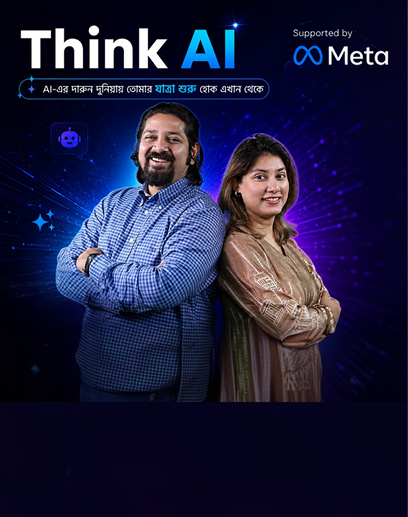
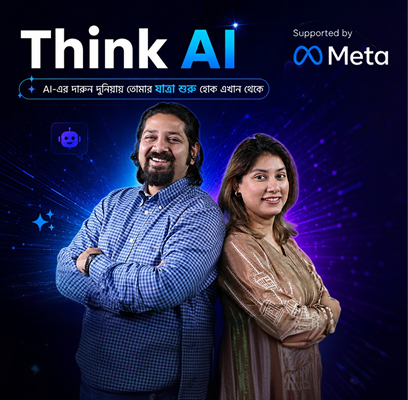
Youtube Iframe added

diff --git a/resources/views/frontend/pages/home.blade.php b/resources/views/frontend/pages/home.blade.php
@@ -49,7 +49,7 @@
     <!-- 2. Message from No.1 Brand -->
     <section class="brand-message-section">
         <div class="container">
-            <h2 class="message-title">স্বপ্ন দেখে এগিয়ে যাও</h2>
+            <h2 class="message-title" style="font-size: 2.5rem; font-style: italic;">স্বপ্ন দেখে এগিয়ে যাও</h2>
             <p class="message-body">
                 শিক্ষা প্রতিটি মানুষের মৌলিক অধিকার। আমাদের দেশের মেধাবী শিক্ষার্থীদের পথচলাকে মসৃণ করতে আমাদের এই বিশেষ
                 উদ্যোগ। সঠিক দিকনির্দেশনা ও প্রয়োজনীয় সহায়তার মাধ্যমে প্রতিটি শিক্ষার্থী যেন তাদের স্বপ্ন ছুঁতে পারে, সেটাই
@@ -66,7 +66,7 @@
                 <!-- Card 1 with YouTube Video -->
                 <div class="col-md-4">
                     <div class="course-card" data-video-id="jg-EvmKaqTQ">
-                        <img src="https://images.unsplash.com/photo-1618005182384-a83a8bd57fbe?auto=format&fit=crop&q=80&w=500"
+                        <img src="{{ asset('images/course-1-thum.png') }}"
                             alt="Think AI">
                         <div class="course-card-body">
                             <h4 class="fw-bold mb-3">Think AI Course</h4>
@@ -80,7 +80,7 @@
                 <!-- Card 2 with YouTube Video -->
                 <div class="col-md-4">
                     <div class="course-card" data-video-id="dQw4w9WgXcQ">
-                        <img src="https://images.unsplash.com/photo-1531482615713-2afd69097998?auto=format&fit=crop&q=80&w=500"
+                        <img src="{{ asset('images/course-2-thum.png') }}"
                             alt="Master AI">
                         <div class="course-card-body">
                             <h4 class="fw-bold mb-3">Mastering Digital Tools</h4>
@@ -94,7 +94,7 @@
                 <!-- Card 3 with YouTube Video -->
                 <div class="col-md-4">
                     <div class="course-card" data-video-id="SxR6m7kqP9M">
-                        <img src="https://images.unsplash.com/photo-1516321318423-f06f85e504b3?auto=format&fit=crop&q=80&w=500"
+                        <img src="{{ asset('images/course-3-thum.png') }}"
                             alt="Career BootCamp">
                         <div class="course-card-body">
                             <h4 class="fw-bold mb-3">ক্যারিয়ার গাইডলাইন</h4>
@@ -200,7 +200,7 @@
                 <div class="col-md-5">
                     <div class="video-card" data-video-id="jg-EvmKaqTQ">
                         <div class="video-thumb-wrapper">
-                            <img src="https://images.unsplash.com/photo-1515378791036-0648a3ef77b2?auto=format&fit=crop&q=80&w=500"
+                            <img src="https://cdn.10minuteschool.com/images/thumbnails/skills/ghore-boshe-Spoken-English-course-thumbnail-by-Munzereen-Shahid-16x9.jpg"
                                 class="w-100" style="height:250px; object-fit:cover;" alt="Video">
                             <div class="play-overlay" data-video-id="jg-EvmKaqTQ"><i class="bi bi-play-fill"></i></div>
                         </div>
@@ -209,10 +209,11 @@
                 </div>
                 <div class="col-md-5">
                     <div class="video-card" data-video-id="dQw4w9WgXcQ">
-                        <div class="video-thumb-wrapper">
-                            <img src="https://images.unsplash.com/photo-1577896851231-70ef18881754?auto=format&fit=crop&q=80&w=500"
+                       <div class="video-thumb-wrapper">
+                            <img src="https://cdn.10minuteschool.com/images/catalog/media/ASE-Thumbnail-16%C3%A0%C2%A6%C2%8F%C3%A0%C2%A6%C2%95%C3%A0%C2%A7%C2%8D%C3%A0%C2%A6%C2%B89_1780465442289.png"
                                 class="w-100" style="height:250px; object-fit:cover;" alt="Video">
-                            <div class="play-overlay" data-video-id="dQw4w9WgXcQ"><i class="bi bi-play-fill"></i></div>
+
+                            <div class="play-overlay" data-video-id="jg-EvmKaqTQ"><i class="bi bi-play-fill"></i></div>
                         </div>
                         <div class="p-3 text-center fw-bold">এসএসসি পরবর্তী সেরা কলেজ সিলেকশন স্ট্র্যাটেজি</div>
                     </div>
@@ -228,28 +229,30 @@
             <div class="row g-3 justify-content-center">
                 <div class="col-md-4">
                     <div class="video-card bg-transparent border-0 text-white" data-video-id="SxR6m7kqP9M">
+                       <div class="video-card bg-transparent border-0 text-white" data-video-id="jg-EvmKaqTQ">
                         <div class="video-thumb-wrapper">
-                            <img src="https://images.unsplash.com/photo-1511578314322-379afb476865?auto=format&fit=crop&q=80&w=400"
+                            <img src="https://ncdn.ntvbd.com/sites/default/files/styles/big_3/public/images/2024/06/05/mgi.jpg"
                                 class="w-100 rounded" style="height:180px; object-fit:cover;" alt="Gallery">
-                            <div class="play-overlay" data-video-id="SxR6m7kqP9M"><i class="bi bi-play-fill"></i></div>
+                            <div class="play-overlay" data-video-id="jg-EvmKaqTQ"><i class="bi bi-play-fill"></i></div>
                         </div>
+                    </div>
                     </div>
                 </div>
                 <div class="col-md-4">
                     <div class="video-card bg-transparent border-0 text-white" data-video-id="jg-EvmKaqTQ">
                         <div class="video-thumb-wrapper">
-                            <img src="https://images.unsplash.com/photo-1540575467063-178a50c2df87?auto=format&fit=crop&q=80&w=400"
+                            <img src="https://admin.dainikamadershomoy.com/images/large/2025/08/31/news_1756661557436.webp"
                                 class="w-100 rounded" style="height:180px; object-fit:cover;" alt="Gallery">
                             <div class="play-overlay" data-video-id="jg-EvmKaqTQ"><i class="bi bi-play-fill"></i></div>
                         </div>
                     </div>
                 </div>
                 <div class="col-md-4">
-                    <div class="video-card bg-transparent border-0 text-white" data-video-id="dQw4w9WgXcQ">
+                     <div class="video-card bg-transparent border-0 text-white" data-video-id="jg-EvmKaqTQ">
                         <div class="video-thumb-wrapper">
-                            <img src="https://images.unsplash.com/photo-1475721027785-f74eccf877e2?auto=format&fit=crop&q=80&w=400"
+                            <img src="https://scontent.fdac198-2.fna.fbcdn.net/v/t39.30808-6/481478843_1013384197492318_1529058912000844589_n.jpg?stp=dst-jpg_tt6&cstp=mx2048x1933&ctp=s2048x1933&_nc_cat=107&ccb=1-7&_nc_sid=127cfc&_nc_ohc=BcLtyeIU5lwQ7kNvwFULSrx&_nc_oc=AdqQSWBhRs28PI4QvDv1yg1C7x1zso0ukT5DFpyOIQ58CVnwrJRjOCnrOJuC-_8m4Tc&_nc_zt=23&_nc_ht=scontent.fdac198-2.fna&_nc_gid=J8VcfTUoV9QpLcBGyj0l-A&_nc_ss=7b289&oh=00_Af9uA_GFs_zo4w0FvFjQT6_hpFva_xAG8a2znOtgs13lPQ&oe=6A2DA9B1"
                                 class="w-100 rounded" style="height:180px; object-fit:cover;" alt="Gallery">
-                            <div class="play-overlay" data-video-id="dQw4w9WgXcQ"><i class="bi bi-play-fill"></i></div>
+                            <div class="play-overlay" data-video-id="jg-EvmKaqTQ"><i class="bi bi-play-fill"></i></div>
                         </div>
                     </div>
                 </div>
@@ -273,7 +276,7 @@
 
             <div class="position-relative rounded-4 overflow-hidden shadow-lg mb-4">
                 <img id="galleryMainImage"
-                    src="https://images.unsplash.com/photo-1492684223066-81342ee5ff30?auto=format&fit=crop&q=80&w=1200"
+                    src="https://admin.dainikamadershomoy.com/images/large/2025/08/31/news_1756661557436.webp"
                     class="w-100" style="max-height: 480px; object-fit: cover;" alt="Gallery main">
                 <button id="prevGalleryBtn"
                     class="btn btn-dark position-absolute top-50 start-0 translate-middle-y ms-3 rounded-circle"
@@ -294,7 +297,7 @@
             <div class="row g-4">
                 <div class="col-md-4">
                     <div class="news-card">
-                        <img src="https://images.unsplash.com/photo-1504711434969-e33886168f5c?auto=format&fit=crop&q=80&w=400"
+                        <img src="https://ncdn.ntvbd.com/sites/default/files/styles/big_3/public/images/2024/06/05/mgi.jpg"
                             alt="News">
                         <div class="p-3">
                             <h5 class="fw-bold text-dark">মেধাবী শিক্ষার্থীদের স্বপ্নপূরণে অনন্য এক মহতি উদ্যোগ</h5>
@@ -306,7 +309,7 @@
                 </div>
                 <div class="col-md-4">
                     <div class="news-card">
-                        <img src="https://images.unsplash.com/photo-1585829365295-ab7cd400c167?auto=format&fit=crop&q=80&w=400"
+                        <img src="https://admin.dainikamadershomoy.com/images/large/2025/08/31/news_1756661557436.webp"
                             alt="News">
                         <div class="p-3">
                             <h5 class="fw-bold text-dark">দেশজুড়ে শিক্ষার্থীদের মাঝে উন্মাদনা ও ব্যাপক সাড়া</h5>
@@ -318,7 +321,7 @@
                 </div>
                 <div class="col-md-4">
                     <div class="news-card">
-                        <img src="https://images.unsplash.com/photo-1507679799987-c73779587ccf?auto=format&fit=crop&q=80&w=400"
+                        <img src="https://scontent.fdac198-2.fna.fbcdn.net/v/t39.30808-6/481478843_1013384197492318_1529058912000844589_n.jpg?stp=dst-jpg_tt6&cstp=mx2048x1933&ctp=s2048x1933&_nc_cat=107&ccb=1-7&_nc_sid=127cfc&_nc_ohc=BcLtyeIU5lwQ7kNvwFULSrx&_nc_oc=AdqQSWBhRs28PI4QvDv1yg1C7x1zso0ukT5DFpyOIQ58CVnwrJRjOCnrOJuC-_8m4Tc&_nc_zt=23&_nc_ht=scontent.fdac198-2.fna&_nc_gid=J8VcfTUoV9QpLcBGyj0l-A&_nc_ss=7b289&oh=00_Af9uA_GFs_zo4w0FvFjQT6_hpFva_xAG8a2znOtgs13lPQ&oe=6A2DA9B1"
                             alt="News">
                         <div class="p-3">
                             <h5 class="fw-bold text-dark">আইটি ও লিডারশিপ ভিত্তিক বিশেষ সেশন সম্পন্ন</h5>
@@ -346,7 +349,7 @@
                             <h2 class="accordion-header">
                                 <button class="accordion-button" type="button" data-bs-toggle="collapse"
                                     data-bs-target="#q1">
-                                    Aবেদনের শেষ সময় কবে?
+                                    অনলাইন নিবন্ধনের শেষ সময় কখন?
                                 </button>
                             </h2>
                             <div id="q1" class="accordion-collapse collapse show" data-bs-parent="#faqAccordion">
@@ -370,6 +373,21 @@
                                 </div>
                             </div>
                         </div>
+
+                        <div class="accordion-item">
+                            <h2 class="accordion-header">
+                                <button class="accordion-button collapsed" type="button" data-bs-toggle="collapse"
+                                    data-bs-target="#q3">
+                                    মেধা তালিকায় কিভাবে স্থান পাবে?
+                                </button>
+                            </h2>
+                            <div id="q3" class="accordion-collapse collapse" data-bs-parent="#faqAccordion">
+                                <div class="accordion-body">
+                                    মেধা তালিকা তৈরি করা হবে জেএসসি ও এসএসসি উভয় স্তরের ফলাফলের ভিত্তিতে। জেএসসি ও
+                                    এসএসসি উভয় পরীক্ষায় জিপিএ-৫ অর্জনকারী শিক্ষার্থীদের মধ্যে সর্বোচ্চ নম্বরের ভিত্তিতে
+                                    স্থান নির্ধারণ করা হবে।
+                                </div>
+                            </div>
                     </div>
                 </div>
             </div>
@@ -386,13 +404,13 @@
                     </p>
                     <div class="mt-3 text-dark d-flex flex-wrap gap-3 justify-content-center justify-content-md-start">
                         <span><i class="bi bi-telephone-fill text-primary"></i> +৮৮০ ১২৩৪৫৬৭৮</span>
-                        <span><i class="bi bi-envelope-fill text-primary"></i> [email redacted]</span>
+                        <span><i class="bi bi-envelope-fill text-primary"></i> [email redacted]</span>
                     </div>
                 </div>
                 <div class="col-md-4 text-md-end text-center">
-                    <img src="https://images.unsplash.com/photo-1534528741775-53994a69daeb?auto=format&fit=crop&q=80&w=200"
+                    <img src="https://admin.dainikamadershomoy.com/images/large/2025/08/31/news_1756661557436.webp"
                         alt="Support representative" class="rounded-circle shadow"
-                        style="width:95px; height:95px; object-fit:cover;">
+                        style="width:125px; height:120px; object-fit:cover;">
                 </div>
             </div>
         </div>
@@ -419,15 +437,15 @@
         function openYouTubeVideo(videoId) {
             const videoFrameContainer = document.getElementById('videoFrameContainer');
             videoFrameContainer.innerHTML = `
-                <iframe
-                    src="https://www.youtube.com/embed/jg-EvmKaqTQ?si=nSUVEGft_sl38Fpp&autoplay=1"
-                    title="YouTube video player"
-                    frameborder="0"
-                    allow="accelerometer; autoplay; clipboard-write; encrypted-media; gyroscope; picture-in-picture; web-share"
-                    referrerpolicy="strict-origin-when-cross-origin"
-                    allowfullscreen
-                    style="width:100%; height:100%; position:absolute; inset:0;">
-                </iframe>`;
+              <iframe
+                src="https://www.youtube.com/embed/${videoId}?si=nSUVEGft_sl38Fpp&autoplay=1"
+                title="YouTube video player"
+                frameborder="0"
+                allow="accelerometer; autoplay; clipboard-write; encrypted-media; gyroscope; picture-in-picture; web-share"
+                referrerpolicy="strict-origin-when-cross-origin"
+                allowfullscreen
+                style="width:100%; height:100%; position:absolute; inset:0;">
+              </iframe>`;
 
             new bootstrap.Modal(document.getElementById('videoModal')).show();
         }
@@ -462,19 +480,19 @@
             // Image sets for All, Dhaka, Chattogram
             const galleryData = {
                 all: [
-                    "https://images.unsplash.com/photo-1492684223066-81342ee5ff30?auto=format&fit=crop&q=80&w=1200",
+                    "https://ncdn.ntvbd.com/sites/default/files/styles/big_3/public/images/2024/06/05/mgi.jpg",
                     "https://images.unsplash.com/photo-1523580494863-6f3031224c94?auto=format&fit=crop&q=80&w=1200",
                     "https://images.unsplash.com/photo-1511795409834-ef04bbd61622?auto=format&fit=crop&q=80&w=1200",
                     "https://images.unsplash.com/photo-1540575467063-178a50c2df87?auto=format&fit=crop&q=80&w=1200",
                     "https://images.unsplash.com/photo-1475721027785-f74eccf877e2?auto=format&fit=crop&q=80&w=1200"
                 ],
                 dhaka: [
-                    "https://images.unsplash.com/photo-1492684223066-81342ee5ff30?auto=format&fit=crop&q=80&w=1200",
+                    "https://scontent.fdac198-2.fna.fbcdn.net/v/t39.30808-6/481478843_1013384197492318_1529058912000844589_n.jpg?stp=dst-jpg_tt6&cstp=mx2048x1933&ctp=s2048x1933&_nc_cat=107&ccb=1-7&_nc_sid=127cfc&_nc_ohc=BcLtyeIU5lwQ7kNvwFULSrx&_nc_oc=AdqQSWBhRs28PI4QvDv1yg1C7x1zso0ukT5DFpyOIQ58CVnwrJRjOCnrOJuC-_8m4Tc&_nc_zt=23&_nc_ht=scontent.fdac198-2.fna&_nc_gid=J8VcfTUoV9QpLcBGyj0l-A&_nc_ss=7b289&oh=00_Af9uA_GFs_zo4w0FvFjQT6_hpFva_xAG8a2znOtgs13lPQ&oe=6A2DA9B1",
                     "https://images.unsplash.com/photo-1523580494863-6f3031224c94?auto=format&fit=crop&q=80&w=1200",
                     "https://images.unsplash.com/photo-1511795409834-ef04bbd61622?auto=format&fit=crop&q=80&w=1200",
                 ],
                 chattogram: [
-                    "https://images.unsplash.com/photo-1540575467063-178a50c2df87?auto=format&fit=crop&q=80&w=1200",
+                    "https://scontent.fdac198-2.fna.fbcdn.net/v/t39.30808-6/481478843_1013384197492318_1529058912000844589_n.jpg?stp=dst-jpg_tt6&cstp=mx2048x1933&ctp=s2048x1933&_nc_cat=107&ccb=1-7&_nc_sid=127cfc&_nc_ohc=BcLtyeIU5lwQ7kNvwFULSrx&_nc_oc=AdqQSWBhRs28PI4QvDv1yg1C7x1zso0ukT5DFpyOIQ58CVnwrJRjOCnrOJuC-_8m4Tc&_nc_zt=23&_nc_ht=scontent.fdac198-2.fna&_nc_gid=J8VcfTUoV9QpLcBGyj0l-A&_nc_ss=7b289&oh=00_Af9uA_GFs_zo4w0FvFjQT6_hpFva_xAG8a2znOtgs13lPQ&oe=6A2DA9B1",
                     "https://images.unsplash.com/photo-1475721027785-f74eccf877e2?auto=format&fit=crop&q=80&w=1200"
                 ]
             };

diff --git a/resources/views/frontend/layouts/app.blade.php b/resources/views/frontend/layouts/app.blade.php
@@ -4,7 +4,9 @@
     <meta charset="UTF-8">
     <meta name="viewport" content="width=device-width, initial-scale=1.0">
     <meta name="csrf-token" content="{{ csrf_token() }}">
-    <title>@yield('title', 'Scholarship Campaign - Landing Page')</title>
+    <title>@yield('title', 'NO1 বাবার কৃতী সন্তান সংবর্ধনা')</title>
+
+    <link rel="icon" href="{{ asset('images/no1-logo.png') }}" type="image/png">
     
     <!-- Google Fonts: Hind Siliguri for Bangla typography, Inter for UI elements -->
     <link href="https://fonts.googleapis.com/css2?family=Hind+Siliguri:wght@400;500;600;700&family=Inter:wght@400;500;600&display=swap" rel="stylesheet">
@@ -95,14 +97,14 @@
             margin-bottom: 25px;
         }
         .hero-description {
-            font-size: 1.15rem;
+            font-size: 1.5rem;
             color: #2c3e50;
             line-height: 1.7;
             margin-bottom: 20px;
             max-width: 680px;
         }
         .hero-accent-text {
-            font-size: 1.1rem;
+            font-size: 1.45rem;
             color: #34495e;
             font-weight: 500;
             margin-bottom: 35px;
@@ -194,7 +196,7 @@
             margin-bottom: 20px;
         }
         .message-body {
-            font-size: 1.2rem;
+            font-size: 1.5rem;
             color: #444;
             max-width: 850px;
             margin: 0 auto;
@@ -227,7 +229,7 @@
         }
         .course-card img {
             width: 100%;
-            height: 210px;
+            height: 400px;
             object-fit: cover;
             transition: transform 0.3s;
         }
@@ -254,20 +256,19 @@
 
         /* --- Round Thumbnails Grid --- */
         .feature-thumb-container {
-            padding: 40px 0;
+            padding: 50px 0;
         }
         .feature-thumb-card {
-            background: #FFF9E6;
-            border-radius: 16px;
-            padding: 20px;
+            background: #ffffff;
+            border-radius: 20px;
+            padding: 30px;
             text-align: center;
-            border: 1px solid #FFEAA7;
-            height: 100%;
+            box-shadow: 0 4px 15px rgba(0,0,0,0.05);
             transition: all 0.3s ease;
-            cursor: pointer;
+            
         }
         .feature-thumb-card:hover {
-            background: #FFEAA7;
+            background: #fff3cb;
             transform: translateY(-5px);
         }
         .feature-thumb-card img {

diff --git a/resources/views/frontend/partials/footer.blade.php b/resources/views/frontend/partials/footer.blade.php
@@ -7,7 +7,7 @@
                 <span class="mb-0 text-muted">&copy; {{ date('Y') }} শিক্ষাবৃত্তি ক্যাম্পেইন। সর্বস্বত্ব সংরক্ষিত।</span>
             </div>
             <div class="col-md-6 text-md-end text-center">
-                <span class="small text-muted me-2">An Initiative By:</span>
+                <span class="small text-muted me-2">আয়োজন ও পৃষ্ঠপোষকতাঃ </span>
                 <img src="{{ asset('images/no1-logo.png') }}" alt="নাম্বার ওয়ান বাবার কৃতী সন্তান সংবর্ধনা" width="50" height="50" class="me-2">
                 <img src="{{ asset('images/mgi-logo.png') }}" alt="নাম্বার ওয়ান বাবার কৃতী সন্তান সংবর্ধনা" width="50" height="30">
             </div>